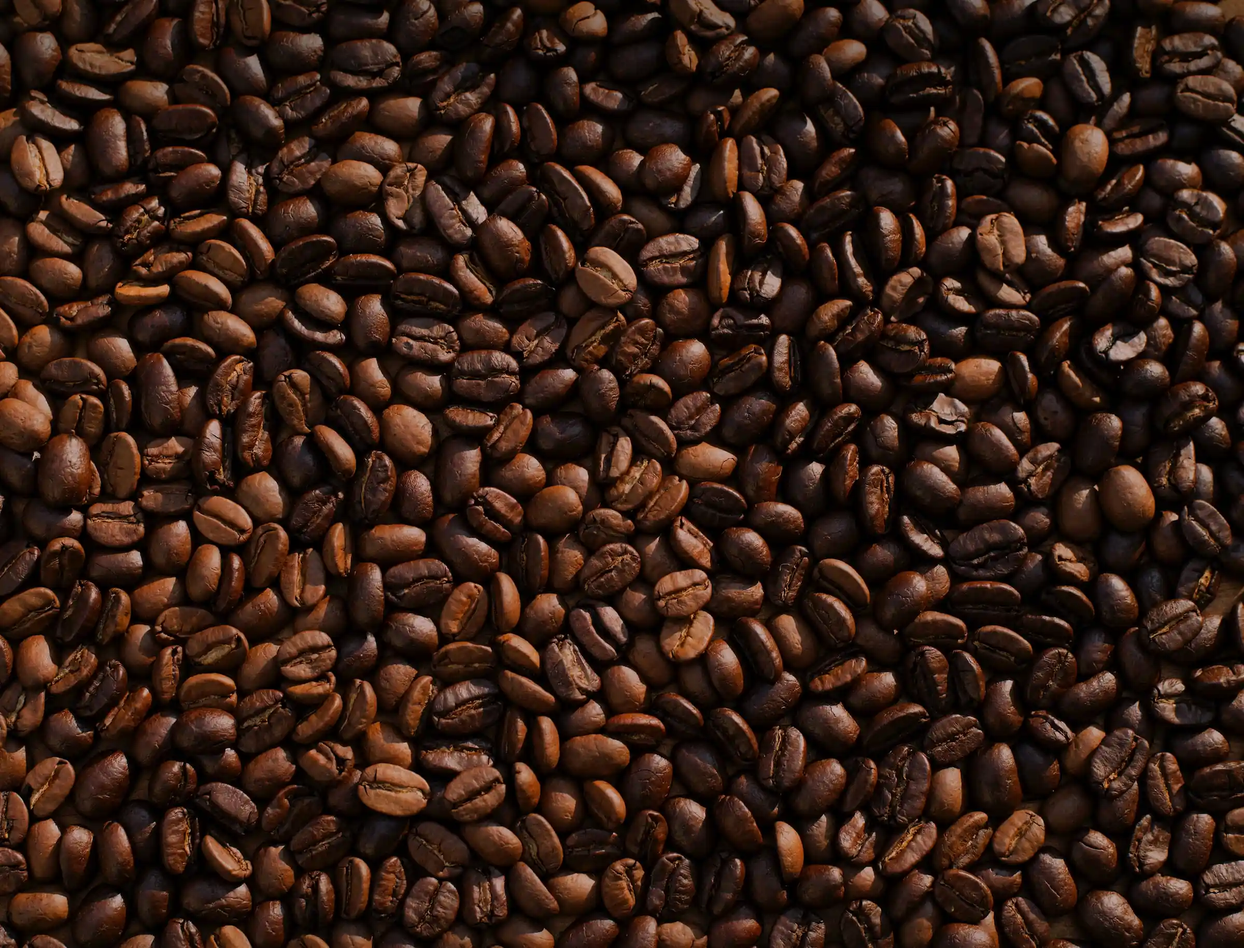
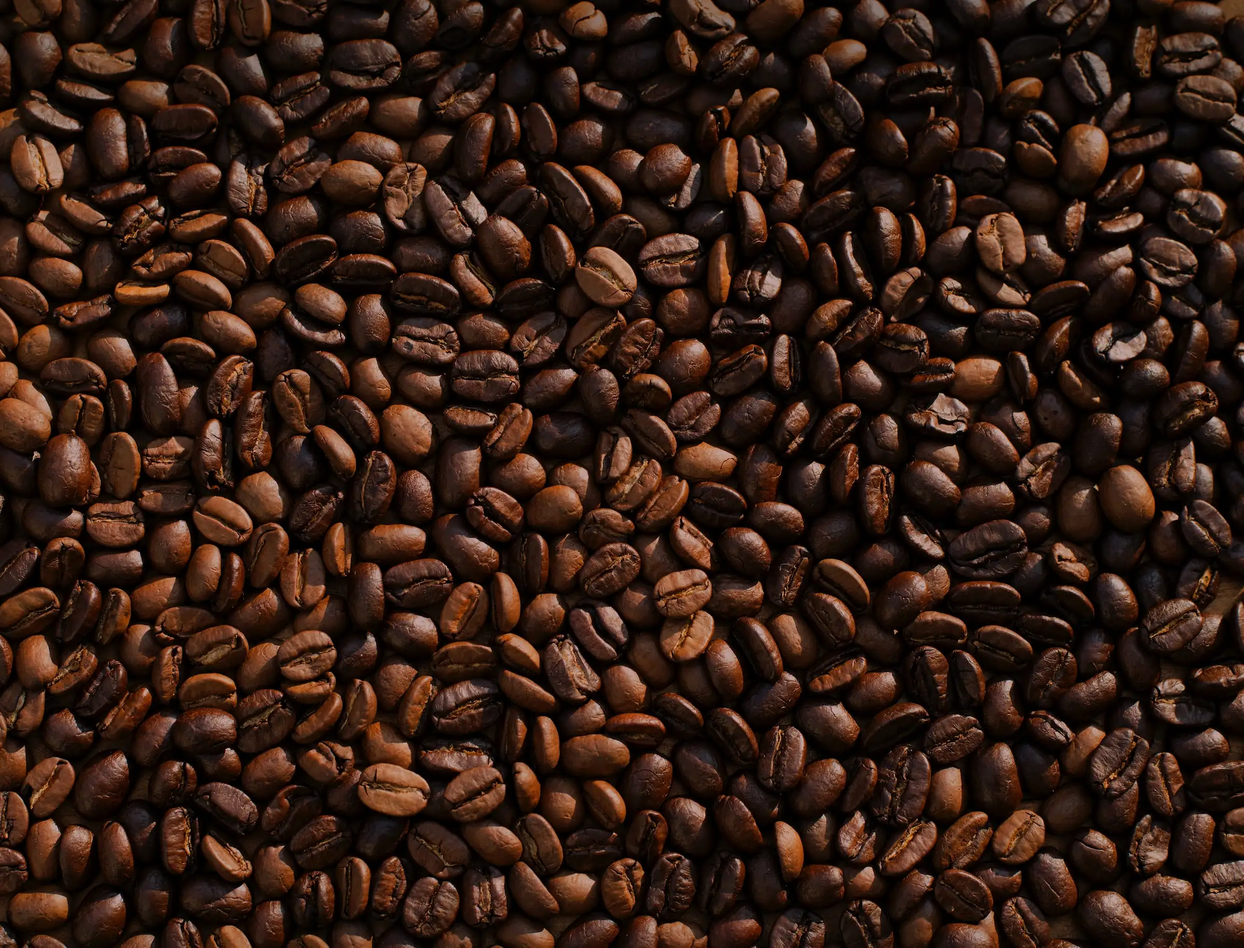
Index background added.

diff --git a/assets/css/style.css b/assets/css/style.css
@@ -9,11 +9,6 @@ body {
 body {
   display: flex;
   flex-flow: column;
-  background-color: burlywood;
-  background-image: url(../img/background1.webp);
-  background-repeat: no-repeat;
-  background-position: center;
-  background-size: cover;
 }
 
 footer {
@@ -21,7 +16,17 @@ footer {
 }
 
 .navbar-custom {
-  background-color: rgba(255, 255, 255, 0.1);
+  background-color: rgba(255, 239, 214, 0.7);
+}
+
+.parallax {
+  background-color: burlywood;
+  background-image: url(../img/background2.webp);
+  background-attachment: fixed;
+  background-position: center;
+  background-repeat: no-repeat;
+  background-size: cover;
+  margin-bottom: 50px;
 }
 
 /*# sourceMappingURL=style.css.map */

diff --git a/assets/scss/partials/_base.scss b/assets/scss/partials/_base.scss
@@ -9,12 +9,6 @@ body {
 body {
   display: flex;
   flex-flow: column;
-  background-color: burlywood;
-  // Foto de Mike Kenneally en Unsplash
-  background-image: url(../img/background1.webp);
-  background-repeat: no-repeat;
-  background-position: center;
-  background-size: cover;
 }
 
 footer {

diff --git a/assets/scss/partials/_index.scss b/assets/scss/partials/_index.scss
@@ -1,0 +1,9 @@
+.parallax {
+  background-color: burlywood;
+  background-image: url(../img/background2.webp);
+  background-attachment: fixed;
+  background-position: center;
+  background-repeat: no-repeat;
+  background-size: cover;
+  margin-bottom: 50px;
+}

diff --git a/index.html b/index.html
@@ -14,7 +14,7 @@
   <link rel="stylesheet" href="assets/css/style.css">
 </head>
 
-<body>
+<body class="parallax">
 
   <!-- Navbar -->
 

diff --git a/assets/scss/partials/_navbar.scss b/assets/scss/partials/_navbar.scss
@@ -1,3 +1,3 @@
 .navbar-custom {
-  background-color: rgb(255, 255, 255, 0.1);
+  background-color: rgba(255, 239, 214, 0.7);
 }

diff --git a/assets/scss/style.scss b/assets/scss/style.scss
@@ -1,2 +1,3 @@
 @import "partials/base";
 @import "partials/navbar";
+@import "partials/index";
